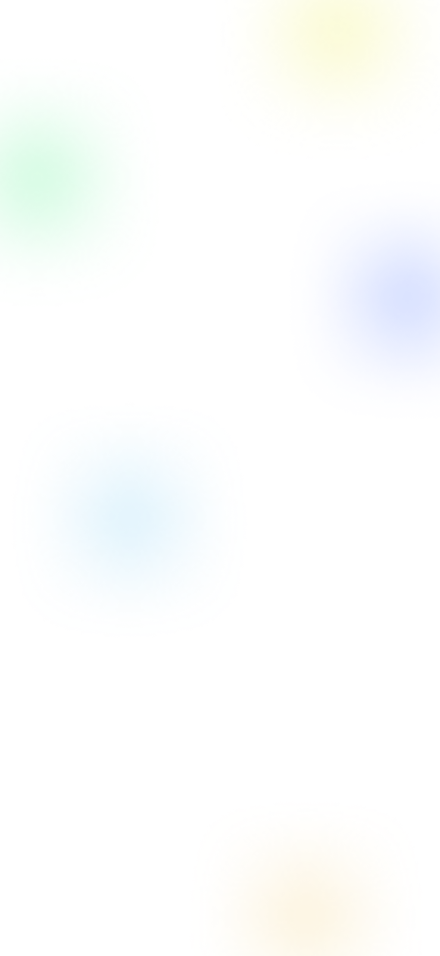
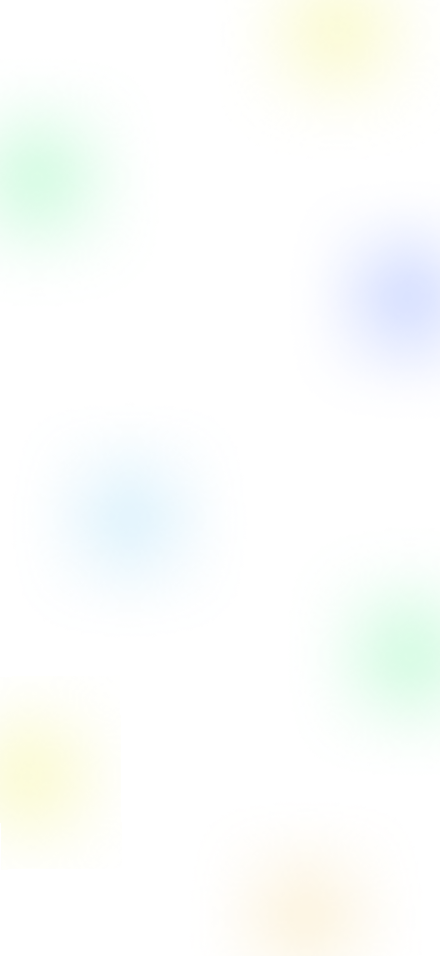
refactor(focus-timer): remove background color from container style refactor(home): replace LinearGradient with fragment in HomeScreen refactor(mood-tracking): adjust bottom padding and enhance layout styling chore: update background image asset

Changed region(s): [[0.0, 0.7584, 0.1773, 0.8797], [0.8273, 0.637, 1.0, 0.728]]

diff --git a/frontend/app/(tabs)/mood-tracking.tsx b/frontend/app/(tabs)/mood-tracking.tsx
@@ -14,7 +14,7 @@ export default function MoodTracking() {
 
   // compute bottom padding to avoid overlap with bottom navigation
   // keep minimal extra space so nav remains fixed at the bottom like on home
-  const bottomPadding = Math.max(insets.bottom, 12) + 16;
+  const bottomPadding = Math.max(insets.bottom, 12) + 60;
 
   const [note, setNote] = useState("");
   const [mood, setMood] = useState(3);
@@ -89,7 +89,7 @@ export default function MoodTracking() {
     <SafeAreaView style={{ flex: 1 }}>
       <View style={{ flex: 1 }}>
         <ScrollView
-          style={{ flex: 1, backgroundColor: colors.surface }}
+          style={{ flex: 1 }}
           contentContainerStyle={{
             paddingTop: 40,
             paddingBottom: bottomPadding, // use safe area to avoid nav overlap
@@ -98,21 +98,6 @@ export default function MoodTracking() {
           }}
         >
 
-          <View
-            style={{
-              alignSelf: "stretch",
-              marginHorizontal: 16,
-              backgroundColor: colors.surface,
-              borderRadius: 20,
-              padding: 20,
-              // subtle card shadow
-              shadowColor: "#000",
-              shadowOffset: { width: 0, height: 6 },
-              shadowOpacity: 0.06,
-              shadowRadius: 12,
-              elevation: 6,
-            }}
-          >
 
             {/* Header */}
 
@@ -150,6 +135,22 @@ export default function MoodTracking() {
             </View>
 
 
+          <View
+            style={{
+              alignSelf: "stretch",
+              marginHorizontal: 16,
+              backgroundColor: colors.surface,
+              borderRadius: 20,
+              padding: 20,
+              // subtle card shadow
+              shadowColor: "#000",
+              shadowOffset: { width: 0, height: 6 },
+              shadowOpacity: 0.06,
+              shadowRadius: 12,
+              elevation: 6,
+              marginTop: 32,
+            }}
+          >
             {/* Note Input */}
 
             <TextInput
@@ -275,10 +276,11 @@ export default function MoodTracking() {
                 zIndex: -1,
               }}
             />
-
+          </View>
+          
             {/* Energy Level */}
 
-            <View style={{ marginTop: 24 }}>
+            <View style={{ marginTop: 24, marginHorizontal: 16 }}>
 
               <Text style={{ fontSize: 16, fontWeight: "600", marginBottom: 8, color: colors.onBackground }}>
                 ⚡ Energy Level
@@ -288,6 +290,7 @@ export default function MoodTracking() {
                 backgroundColor: colors.surface,
                 borderRadius: 12,
                 padding: 12,
+                paddingTop: 20,
                 shadowColor: '#000',
                 shadowOffset: { width: 0, height: 6 },
                 shadowOpacity: 0.06,
@@ -338,11 +341,12 @@ export default function MoodTracking() {
                 backgroundColor: colors.primary,
                 paddingVertical: 16,
                 borderRadius: 28,
-                marginTop: 32,
-                marginBottom: 12,
+                marginTop: 20,
                 alignItems: 'center',
                 justifyContent: 'center',
-                alignSelf: 'stretch'
+                alignSelf: 'stretch',
+                marginHorizontal: 16,
+                marginBottom: 38,
               }}
             >
 
@@ -352,7 +356,6 @@ export default function MoodTracking() {
 
             </TouchableOpacity>
 
-          </View>
 
         </ScrollView>
 

diff --git a/frontend/app/(tabs)/home.tsx b/frontend/app/(tabs)/home.tsx
@@ -182,12 +182,7 @@ export default function HomeScreen() {
   const router = useRouter();
 
   return (
-    <LinearGradient
-      colors={["#fef6e4", "#f0e6ff", "#e6f0ff", "#e6fff0"]}
-      start={{ x: 0, y: 0 }}
-      end={{ x: 1, y: 1 }}
-      style={styles.container}
-    >
+    <>
       <SafeAreaView style={styles.safeArea} edges={["top"]}>
         <ScrollView
           style={styles.scrollView}
@@ -407,7 +402,7 @@ export default function HomeScreen() {
         </ScrollView>
       </SafeAreaView>
       <Nav />
-    </LinearGradient>
+    </>
   );
 }
 

diff --git a/frontend/app/(tabs)/focus-timer.tsx b/frontend/app/(tabs)/focus-timer.tsx
@@ -250,7 +250,7 @@ const createStyles = (theme: any, mode: TimerMode) =>
   StyleSheet.create({
     container: {
       flex: 1,
-      backgroundColor: theme.colors.background,
+      // backgroundColor: theme.colors.background,
     },
     scrollContent: {
       flexGrow: 1,
